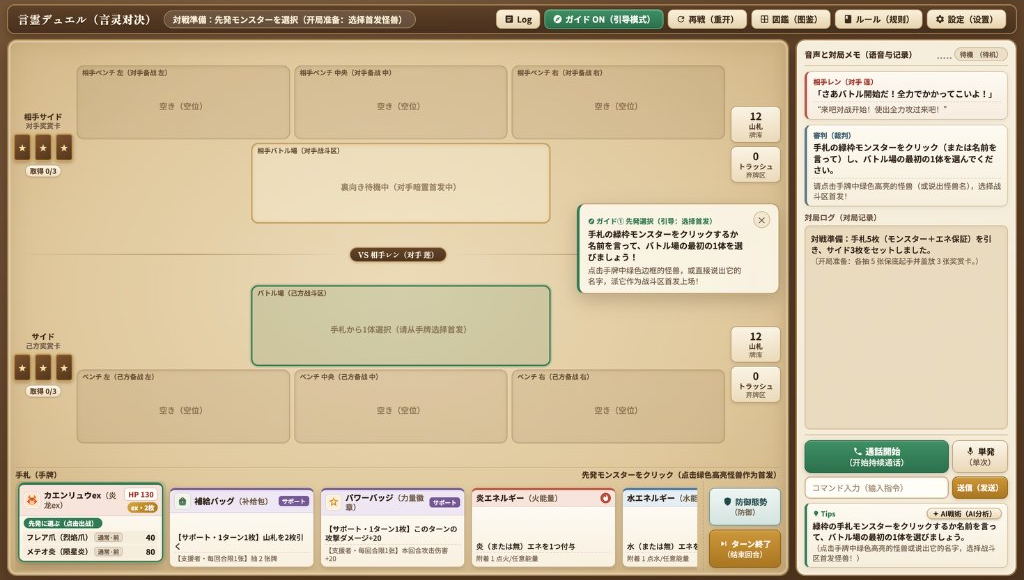
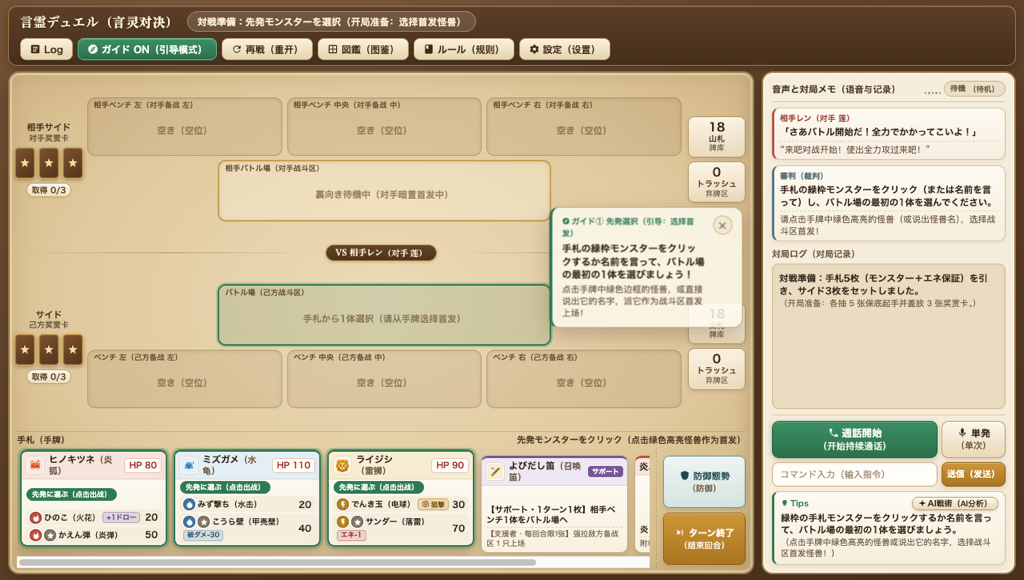
docs: 同步 README 与主界面截图至当前最新状态

diff --git a/README.md b/README.md
@@ -40,7 +40,7 @@
 - **PC / 手机横屏 / 手机竖屏三端自适应**：
   - 手机端自动适配横屏与竖屏，顶栏提供「全画面（全屏）」切换按钮（手机切换 PC 模式后仍保留且尺寸对齐）。
   - 手机竖屏采用专属防压缩布局：**顶部紧凑奖赏/牌库条 + 全宽主战区 + 横向滑动大卡备战区 + 语音栏置顶紧贴手牌**，单手即可流畅读卡操作。
-- **防误触与新手友好**：支持随时开关的新手浮动语音引导、备战区空位实时提示、双档 AI 难度（普通 / 困难）以及顶部「再戦（重开）」双语二次确认弹窗。
+- **防误触与新手友好**：支持随时开关的新手浮动语音引导、备战区空位实时提示、双档 AI 难度（普通 / 困难），以及「再戦（重开）」与「ターン終了（结束回合）」双语防误触二次确认。
 
 ### 极简工程与数据解耦
 - **单一数据源驱动**：全部卡牌、技能、牌组、台词、双语规则、LLM 提示词与 ASR 纠错表集中存放在 [`gamedata.json`](./gamedata.json)，支持页面内拖拽热更新。
@@ -56,8 +56,9 @@
 | **开局准备** | 起手 5 张（保底含怪兽与能量），自选 1 只怪兽作为首发上场，亮牌后抽 1 张正式开始 |
 | **备战区规则** | 己方回合中，手牌有怪兽卡即可**不限次数直接放到备战区**（最多 3 只）；主战怪兽倒下时由备战区补位 |
 | **属性克制** | **水克火 → 火克雷 → 雷克水**，命中弱点时伤害 **+20**（狙击对手备战区不计弱点） |
-| **ex 王牌怪兽** | 血量更高、爆发更强，但被击倒时对手一次拿走 **2 张奖赏卡** |
-| **每回合限次** | 贴能量 `1 次` · 支援者卡（补给包 / 召唤笛 / 力量徽章）合计 `1 次` · 弃 1 能撤退 `1 次`；普通道具（伤药 / 能量回收）不限次 |
+| **ex 王牌怪兽** | 双方各 2 张（`160~170 HP`、3 费高爆发或全后排溅射大招），可直接出场，但被击倒时对手一次拿走 **2 张奖赏卡** |
+| **技能特性** | 8 只怪兽各具专属机制：过牌（`+1ドロー`）、重盾减伤（`被ダメ-30`）、备战狙击（`狙撃`）、全后排溅射（`後列10/20`）、自愈（`回復+20`）、狂暴反伤（`反動20`）与弃能爆发（`エネ-1`） |
+| **每回合限次** | 贴能量 `1 次` · 支援者卡（补给包 / 召唤笛 / 力量徽章）合计 `1 次` · 撤退 `1 次`（普通弃 1 能、ex 弃 2 能）；普通道具（伤药 / 能量回收）不限次 |
 
 ### 常用语音 / 文字指令示例
 
